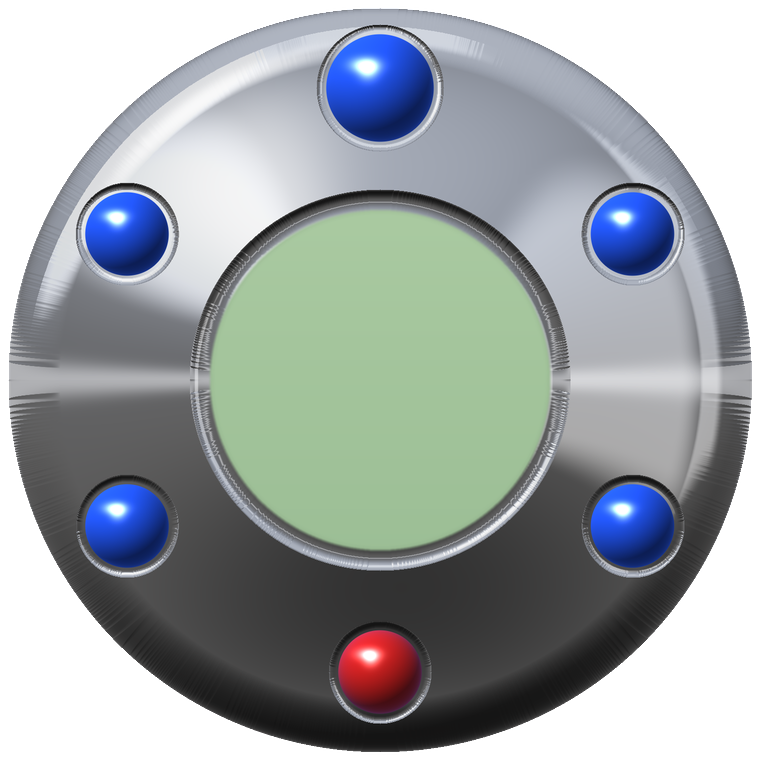
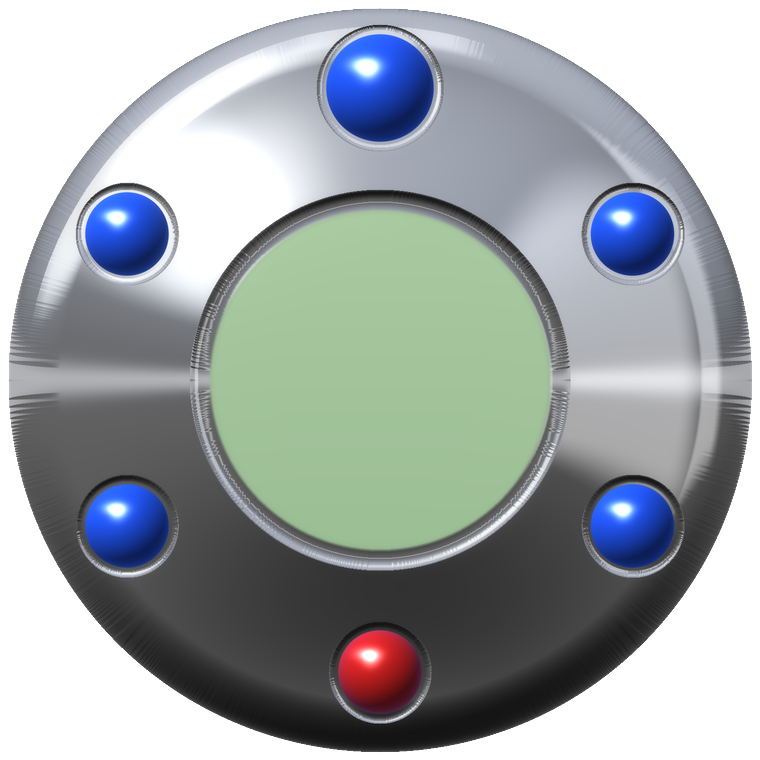
Update EARWAX app

Changed region(s): [[0.1211, 0.0605, 0.3934, 0.3934], [0.3329, 0.3026, 0.3632, 0.3329]]

diff --git a/tools/head.py b/tools/head.py
@@ -3,7 +3,7 @@ import numpy as np, json, sys, time
 from PIL import Image
 from art import *
 W, H = (1080, 1130) if len(sys.argv) < 2 else (int(sys.argv[1]), int(sys.argv[1]) * 1130 // 1080)
-S = W / 3.1; YC = 0.02 + 1.62
+S = W / 3.3; YC = 1.62
 
 def smin(a, b, k):
     h = np.clip(0.5 + 0.5 * (b - a) / k, 0, 1); return b * (1 - h) + a * h - k * h * (1 - h)
@@ -13,41 +13,47 @@ def ell(x, y, z, c, r):
     return k0 * (k0 - 1) / k1
 def sph(x, y, z, c, r): return np.sqrt((x - c[0]) ** 2 + (y - c[1]) ** 2 + (z - c[2]) ** 2) - r
 def cap(x, y, z, a, b, r):
-    px, py, pz = x - a[0], y - a[1], z - a[2]; bx, by, bz = b[0] - a[0], b[1] - a[1], b[2] - a[2]
-    h = np.clip((px * bx + py * by + pz * bz) / (bx * bx + by * by + bz * bz), 0, 1)
-    return np.sqrt((px - bx * h) ** 2 + (py - by * h) ** 2 + (pz - bz * h) ** 2) - r
+    px, py, pz_ = x - a[0], y - a[1], z - a[2]; bx, by, bz = b[0] - a[0], b[1] - a[1], b[2] - a[2]
+    h = np.clip((px * bx + py * by + pz_ * bz) / (bx * bx + by * by + bz * bz), 0, 1)
+    return np.sqrt((px - bx * h) ** 2 + (py - by * h) ** 2 + (pz_ - bz * h) ** 2) - r
 def rbox(x, y, z, c, b, r):
     qx, qy, qz = np.abs(x - c[0]) - b[0] + r, np.abs(y - c[1]) - b[1] + r, np.abs(z - c[2]) - b[2] + r
     return np.sqrt(np.maximum(qx, 0) ** 2 + np.maximum(qy, 0) ** 2 + np.maximum(qz, 0) ** 2) + np.minimum(np.maximum(qx, np.maximum(qy, qz)), 0) - r
 
-SCR = dict(c=(0, 0.62, 0.8), b=(0.60, 0.50))
-CONES = [(sx, cy) for sx in (-1, 1) for cy in (0.60, 0.13, -0.34)]
-PEARLS = [(-0.60, 1.30), (-0.20, 1.34), (0.20, 1.34), (0.60, 1.30)]
-def pz(px, py): return 0.9 * np.sqrt(max(0, 1 - ((py - 0.35) / 1.15) ** 2 - (px / 0.95) ** 2)) - 0.02
+SC_Y = 0.52                                   # screen centre height
+CONES = [(sx, cy) for sx in (-1, 1) for cy in (0.45, 0.05, -0.35)]
+POD_X = 1.30
+PEARLS = [(-0.60, 1.20), (-0.21, 1.31), (0.21, 1.31), (0.60, 1.20)]
+def crown_z(px, py): return 0.92 * np.sqrt(max(0.0, 1 - ((py - 0.42) / 1.10) ** 2 - (px / 0.98) ** 2))
 
 def scene(x, y, z):
-    d = smin(ell(x, y, z, (0, .35, 0), (.95, 1.15, .9)), ell(x, y, z, (0, -.55, .1), (.72, .85, .75)), .35)
-    d = smin(d, sph(x, y, z, (0, -1.25, .45), .30), .25)
-    d = smin(d, ell(x, y, z, (0, -.13, .8), (.64, .12, .2)), .22)
-    d = smin(d, cap(x, y, z, (0, -.2, .82), (0, -.66, 1.07), .15), .18)
+    d = smin(ell(x, y, z, (0, .42, 0), (.98, 1.10, .92)), ell(x, y, z, (0, -.55, .12), (.76, .88, .72)), .40)
+    d = smin(d, ell(x, y, z, (0, -1.33, .48), (.30, .20, .26)), .22)
+    d = smin(d, ell(x, y, z, (0, -1.62, 0.0), (.36, .50, .34)), .30)                        # neck
     for sx in (-1, 1):
-        d = smin(d, sph(x, y, z, (sx * .17, -.74, .95), .11), .10)
-        d = smin(d, sph(x, y, z, (sx * .46, -.45, .66), .21), .30)
-        d = smin(d, cap(x, y, z, (sx * .80, .15, .02), (sx * 1.10, .15, .02), .26), .16)
-        d = smin(d, rbox(x, y, z, (sx * 1.30, .14, .05), (.27, .78, .42), .24), .12)
-    d = smin(d, ell(x, y, z, (0, -1.0, .80), (.30, .075, .10)), .04)
-    d = smin(d, ell(x, y, z, (0, -1.13, .78), (.26, .075, .10)), .04)
-    d = np.maximum(d, -rbox(x, y, z, (SCR['c'][0], SCR['c'][1], 0.92), (SCR['b'][0] + .04, SCR['b'][1] + .04, .3), .2))
-    for sx, cy in CONES:   # speaker groove
-        d = np.maximum(d, -(np.maximum(np.sqrt((x - sx * 1.30) ** 2 + (y - cy) ** 2) - .215, -(z - .40) + 0.0 - 0.0)))
-    m = np.zeros_like(d)
-    best = d
+        d = smin(d, sph(x, y, z, (sx * .52, -.80, .40), .34), .30)                          # jaw / cheek mass
+        d = smin(d, sph(x, y, z, (sx * .17, -.70, .93), .105), .12)                         # nostril wings
+        d = smin(d, cap(x, y, z, (sx * .80, .05, .05), (sx * 1.08, .05, .05), .21), .14)    # hinge to pod
+        d = smin(d, rbox(x, y, z, (sx * POD_X, .05, .10), (.27, .64, .34), .26), .12)       # speaker pod
+    d = smin(d, ell(x, y, z, (0, -.10, .74), (.58, .10, .16)), .26)                          # brow shelf under the screen
+    d = smin(d, cap(x, y, z, (0, -.14, .80), (0, -.56, 1.00), .13), .16)                     # nose bridge
+    d = smin(d, sph(x, y, z, (0, -.66, 1.05), .155), .14)                                    # nose tip
+    d = smin(d, ell(x, y, z, (0, -.98, .84), (.30, .078, .12)), .12)                         # upper lip
+    d = smin(d, ell(x, y, z, (0, -1.11, .83), (.26, .088, .12)), .12)                        # lower lip
+    d = np.maximum(d, -ell(x, y, z, (0, -1.045, .96), (.30, .012, .08)))                     # mouth line
+    for sx in (-1, 1): d = np.maximum(d, -ell(x, y, z, (sx * .085, -.77, 1.0), (.05, .03, .06)))   # nostrils
+    bez = rbox(x, y, z, (0, SC_Y, .74), (.70, .54, .30), .26)                                # CRT bezel block on the forehead
+    bez = np.maximum(bez, -rbox(x, y, z, (0, SC_Y, 1.12), (.60, .46, .14), .13))
+    d = smin(d, bez, .10)
+    for sx, cy in CONES:                                                                     # speaker grooves
+        d = np.maximum(d, -np.maximum(np.sqrt((x - sx * POD_X) ** 2 + (y - cy) ** 2) - .225, .34 - z + 0.0))
+    m = np.zeros_like(d); best = d
     def put(dd, mat):
         nonlocal best, m
         sel = dd < best; best = np.where(sel, dd, best); m = np.where(sel, mat, m)
-    put(rbox(x, y, z, (SCR['c'][0], SCR['c'][1], 0.79), (SCR['b'][0] - .03, SCR['b'][1] - .03, .045), .04), 1)
-    for sx, cy in CONES: put(ell(x, y, z, (sx * 1.30, cy, .38), (.17, .17, .11)), 2)
-    for px, py in PEARLS: put(sph(x, y, z, (px, py, pz(px, py) + .02), .095), 3)
+    put(rbox(x, y, z, (0, SC_Y, .97), (.585, .445, .03), .11), 1)
+    for sx, cy in CONES: put(ell(x, y, z, (sx * POD_X, cy, .36), (.175, .175, .125)), 2)
+    for px, py in PEARLS: put(sph(x, y, z, (px, py, crown_z(px, py) + .03), .125), 3)
     return best, m
 
 def march(x0, y0):
@@ -79,20 +85,20 @@ for s0 in range(0, idx.size, 200000):
     ao = np.clip(ao, 0.25, 1)
     col = shade_normals(n, ao=ao)
     gl = shade_normals(n, base=(.55, .6, .7), spec=1.4) * 0.30 + 0.015       # black glass
-    cone = shade_normals(n, base=(.30, .31, .34), spec=.6, ao=ao * .8) * 0.55; ang = np.arctan2(y - np.round((y + .34) / .47) * .47, x - np.sign(x) * 1.30)
+    cone = shade_normals(n, base=(.30, .31, .34), spec=.6, ao=ao * .8) * 0.55; ang = np.arctan2(y - np.clip(np.round((y - .05) / .40) * .40 + .05, -.35, .45), x - np.sign(x) * POD_X)
     cone *= (0.82 + 0.18 * np.sin(ang * 36))[:, None]
     pearl = shade_normals(n, base=(.80, .86, 1.0), spec=2.0, ao=ao); pearl = pearl * np.array([.78, .88, 1.1])
     out = np.where((mat == 1)[:, None], gl, np.where((mat == 2)[:, None], cone, np.where((mat == 3)[:, None], pearl, col)))
     rgb[ii] = out
 img = np.dstack([rgb.reshape(H, W, 3), alpha.reshape(H, W)]); img[..., :3] *= (img[..., 3:4] > 0)
+img = finish(img)
 Image.fromarray((np.clip(img, 0, 1) * 255).astype(np.uint8), 'RGBA').save(sys.argv[2] if len(sys.argv) > 2 else 'head.png')
 def px(wx, wy): return [round(wx * S + W / 2, 1), round(YC * S - wy * S, 1)]
 buttons = []
 for i, (sx, cy) in enumerate(CONES):
-    cx, cyy = px(sx * 1.30, cy); buttons.append(dict(id=['prev', 'play', 'next', 'list', 'eq', 'fx'][i if sx < 0 else i], cx=cx, cy=cyy, r=round(.22 * S, 1)))
-# left cones are first 3 (sx=-1) -> prev/play/next ; right cones -> list/eq/fx
+    cx, cyy = px(sx * POD_X, cy); buttons.append(dict(id=['prev', 'play', 'next', 'list', 'eq', 'fx'][i], cx=cx, cy=cyy, r=round(.20 * S, 1)))
 for (pxx, pyy), bid in zip(PEARLS, ['shuffle', 'repeat', 'sleep', 'popup']):
-    cx, cyy = px(pxx, pz(pxx, pyy) and pyy); buttons.append(dict(id=bid, cx=cx, cy=cyy, r=round(.11 * S, 1)))
-sc = px(SCR['c'][0] - SCR['b'][0], SCR['c'][1] + SCR['b'][1])
-json.dump(dict(w=W, h=H, screen=dict(x=sc[0], y=sc[1], w=round(2 * SCR['b'][0] * S - .06 * S, 1), h=round(2 * SCR['b'][1] * S - .06 * S, 1), r=round(.08 * S, 1)), buttons=buttons), open(sys.argv[3] if len(sys.argv) > 3 else 'head.json', 'w'))
+    cx, cyy = px(pxx, pyy); buttons.append(dict(id=bid, cx=cx, cy=cyy, r=round(.17 * S, 1)))
+sc = px(-.57, SC_Y + .41)
+json.dump(dict(w=W, h=H, screen=dict(x=sc[0], y=sc[1], w=round(1.14 * S, 1), h=round(.82 * S, 1), r=round(.08 * S, 1)), buttons=buttons), open(sys.argv[3] if len(sys.argv) > 3 else 'head.json', 'w'))
 print('done', time.time() - t0)

diff --git a/app/src/main/java/app/earwax/StageView.java b/app/src/main/java/app/earwax/StageView.java
@@ -18,6 +18,7 @@ final class StageView extends View {
     private final Skin head, plate;
     private final Paint Q = new Paint(Paint.ANTI_ALIAS_FLAG), P = Skin.P;
     private final RectF pr;
+    private Bitmap bg;
     private final OverScroller sc;
     private final GestureDetector gd;
     private float s = 1, ox, oy, scroll;
@@ -34,6 +35,7 @@ final class StageView extends View {
         head = Skin.load(c, "head"); plate = Skin.load(c, "plate");
         pr = new RectF(plate.panel.left, plate.panel.top + PY, plate.panel.right, plate.panel.bottom + PY);
         sc = new OverScroller(c);
+        try (java.io.InputStream in = c.getAssets().open("skins/bg.jpg")) { bg = BitmapFactory.decodeStream(in); } catch (Exception ignored) { }
         gd = new GestureDetector(c, new GestureDetector.SimpleOnGestureListener() {
             @Override public boolean onScroll(MotionEvent a, MotionEvent b, float dx, float dy) { scroll = clampScroll(scroll + dy / s); invalidate(); return true; }
             @Override public boolean onFling(MotionEvent a, MotionEvent b, float vx, float vy) { sc.fling(0, (int) scroll, 0, (int) (-vy / s), 0, 0, 0, (int) maxScroll(), 0, 0); postInvalidateOnAnimation(); return true; }
@@ -52,7 +54,31 @@ final class StageView extends View {
     private float clampScroll(float v) { return Math.max(0, Math.min(maxScroll(), v)); }
 
     // ------------------------------------------------------------------ drawing
+    /** Light haze: slow drifting mist behind the hardware, a faint veil in front of it. */
+    private void fog(Canvas c, int w, int h) {
+        long t = System.currentTimeMillis();
+        for (int i = 0; i < 3; i++) {
+            float ph = t / 9000f + i * 2.1f, cx = w * (0.5f + 0.35f * (float) Math.sin(ph)), cy = h * (0.22f + 0.28f * i + 0.05f * (float) Math.cos(ph * 1.3f)), r = w * (0.75f + 0.15f * i);
+            Q.setStyle(Paint.Style.FILL); Q.setShader(new RadialGradient(cx, cy, r, 0x2499b8d8, 0x0099b8d8, Shader.TileMode.CLAMP)); c.drawRect(0, 0, w, h, Q);
+        }
+        Q.setShader(null);
+    }
+
+    private void mist(Canvas c, int w, int h) {
+        Q.setStyle(Paint.Style.FILL);
+        Q.setShader(new LinearGradient(0, h * 0.6f, 0, h, 0x00a8c4e0, 0x30a8c4e0, Shader.TileMode.CLAMP)); c.drawRect(0, h * 0.6f, w, h, Q);
+        Q.setShader(new LinearGradient(0, 0, 0, h * 0.12f, 0x28a8c4e0, 0x00a8c4e0, Shader.TileMode.CLAMP)); c.drawRect(0, 0, w, h * 0.12f, Q);
+        Q.setShader(null);
+    }
+
     @Override protected void onDraw(Canvas c) {
+        if (bg != null) c.drawBitmap(bg, null, new Rect(0, 0, getWidth(), getHeight()), P);
+        fog(c, getWidth(), getHeight());
+        c.save(); drawStage(c); c.restore();
+        mist(c, getWidth(), getHeight());
+    }
+
+    private void drawStage(Canvas c) {
         PlayerService sv = PlayerService.I; if (sv == null) return;
         Hud x = sv.hud();
         c.translate(ox, oy); c.scale(s, s);
@@ -66,11 +92,11 @@ final class StageView extends View {
             boolean on = (b.id.equals("list") && mode == 0) || (b.id.equals("eq") && mode == 1) || (b.id.equals("fx") && mode == 2)
                     || (b.id.equals("shuffle") && sv.shuffle()) || (b.id.equals("repeat") && sv.repeat() != 0)
                     || (b.id.equals("sleep") && sv.sleepMin > 0) || (b.id.equals("popup") && sv.pv != null);
-            boolean cone = b.r > 50;
-            Skin.glyph(c, b.id, b.cx, b.cy, b.r * (cone ? 0.8f : 1f), x.playing, cone ? Skin.LED : 0xff1a2a55);
+            boolean cone = "prev,play,next,list,eq,fx".contains(b.id);
+            Skin.glyph(c, b.id, b.cx, b.cy, b.r * (cone ? 1.0f : 0.62f), x.playing, cone ? Skin.LED : 0xff1a2a55);
             if (on || down == b) {
                 Q.setStyle(Paint.Style.STROKE); Q.setStrokeWidth(down == b ? 9 : 6); Q.setColor(down == b ? 0xffffffff : 0xcc7fe6ff);
-                c.drawCircle(b.cx, b.cy, b.r * (cone ? 0.86f : 1.05f), Q);
+                c.drawCircle(b.cx, b.cy, b.r * (cone ? 0.9f : 0.78f), Q);
             }
         }
     }
@@ -84,6 +110,7 @@ final class StageView extends View {
             int lit = (int) (x.bars[i] * 16);
             for (int k = 0; k < 16; k++) {
                 Q.setColor(k >= lit ? 0xff0e2218 : k < 9 ? 0xff3be37a : k < 13 ? 0xffe8e04a : 0xffff4a3a);
+                if (k < lit) { int gc = Q.getColor(); Q.setColor((gc & 0xffffff) | 0x38000000); c.drawRect(r.left + 24 + i * bw, bot - (k + 1) * seg - 2, r.left + 32 + (i + 1) * bw, bot - k * seg + 4, Q); Q.setColor(gc); }
                 c.drawRect(r.left + 28 + i * bw + 2, bot - (k + 1) * seg + 2, r.left + 28 + (i + 1) * bw - 2, bot - k * seg, Q);
             }
         }

diff --git a/tools/preview.py b/tools/preview.py
@@ -44,7 +44,11 @@ def hud(img, js, strip=False, title='NIGHT DRIVE - SYNTHWAVE', artist='EARWAX DE
             a = math.radians(-135 + 270 * .8); d.line([b['cx'] + math.sin(a) * b['r'] * .28, b['cy'] - math.cos(a) * b['r'] * .28, b['cx'] + math.sin(a) * b['r'] * .78, b['cy'] - math.cos(a) * b['r'] * .78], fill='white', width=int(b['r'] * .12))
         else: glyph(d, b['id'], b['cx'], b['cy'], b['r'], 'white')
 def phone():
-    W, H = 1080, 2200; im = Image.new('RGBA', (W, H), (16, 20, 28, 255)); oy = 50
+    W, H = 1080, 2200; im = Image.open(f'{A}/bg.jpg').convert('RGBA').resize((W, H), Image.BICUBIC); oy = 50
+    from PIL import ImageFilter
+    fog = Image.new('RGBA', (W, H), (0, 0, 0, 0)); fd = ImageDraw.Draw(fog)
+    for i, (cx, cy, r) in enumerate([(380, 500, 700), (760, 1150, 760), (420, 1800, 820)]): fd.ellipse([cx - r, cy - r, cx + r, cy + r], fill=(153, 184, 216, 36))
+    im.alpha_composite(fog.filter(ImageFilter.GaussianBlur(160)))
     head, hj = load('head'); plate, pj = load('plate')
     im.alpha_composite(plate, (0, 1050 + oy)); im.alpha_composite(head, (0, oy)); d = ImageDraw.Draw(im)
     r = hj['screen']; x0, y0 = r['x'], r['y'] + oy
@@ -66,8 +70,13 @@ def phone():
         if i == 2: d.rounded_rectangle([px0 + 16, y + 4, px0 + p['w'] - 16, y + 60], 14, fill=(30, 90, 60))
         d.text((px0 + 30, y + 32), '%03d' % (i + 1), font=F(28), fill=DIM, anchor='lm'); d.text((px0 + 118, y + 32), nm, font=F(32), fill=(255, 255, 255) if i == 2 else LED, anchor='lm'); d.text((px0 + p['w'] - 30, y + 32), '03:%02d' % (10 + i * 4), font=F(28), fill=DIM, anchor='rm')
     for b in hj['buttons']:
-        cone = b['r'] > 50; glyph(d, b['id'], b['cx'], b['cy'] + oy, b['r'] * (.8 if cone else 1), LED if cone else (26, 42, 85))
-        if b['id'] in ('list', 'shuffle'): d.ellipse([b['cx'] - b['r'] * .86, b['cy'] + oy - b['r'] * .86, b['cx'] + b['r'] * .86, b['cy'] + oy + b['r'] * .86], outline=(127, 230, 255), width=6)
+        cone = b['id'] in ('prev', 'play', 'next', 'list', 'eq', 'fx'); glyph(d, b['id'], b['cx'], b['cy'] + oy, b['r'] * (1.0 if cone else .62), LED if cone else (26, 42, 85))
+        if b['id'] in ('list', 'shuffle'): rr_ = b['r'] * (.9 if cone else .78); d.ellipse([b['cx'] - rr_, b['cy'] + oy - rr_, b['cx'] + rr_, b['cy'] + oy + rr_], outline=(127, 230, 255), width=6)
+    from PIL import ImageChops
+    bl = im.convert('RGB').filter(ImageFilter.GaussianBlur(9)); im = Image.blend(im.convert('RGB'), ImageChops.screen(im.convert('RGB'), bl), .35)
+    mist = Image.new('RGBA', (W, H), (0, 0, 0, 0)); md = ImageDraw.Draw(mist)
+    for y in range(int(H * .6), H): md.line([0, y, W, y], fill=(168, 196, 224, int(48 * (y - H * .6) / (H * .4))))
+    im = Image.alpha_composite(im.convert('RGBA'), mist)
     return im.convert('RGB')
 def popup(n, bg):
     s, j = load(n); hud(s, j); return s

diff --git a/tools/shapes.py b/tools/shapes.py
@@ -33,6 +33,8 @@ def build(name, W, H, mask, R, holes, buttons, extra, dome=0.35, nk=1.0):
         elif kind == 'dark': fl = lcd_floor((SH, SW), d_in, edge, (0.035, 0.075, 0.05), (0.02, 0.05, 0.035))
         elif kind == 'grill': fl = lcd_floor((SH, SW), d_in, edge, (0.18, 0.2, 0.22), (0.12, 0.13, 0.15))
         a = (m * sstep(edge * 0.8, edge, d_in))[..., None]; rgb = rgb * (1 - a) + fl * a
+        gl = np.clip(1 - (np.arange(SW)[None, :] + np.arange(SH)[:, None] * 1.3) / (SW + SH * 1.3) * 2.4, 0, 1) ** 1.5 * (0.13 if kind == 'dark' else 0.08)
+        rgb = np.clip(rgb + (gl * a[..., 0])[..., None], 0, 1)
     out = Image.fromarray((np.dstack([rgb, np.ones((SH, SW))]) * 255).astype(np.uint8), 'RGBA')
     for b in buttons:
         s = int(2 * b['r'] * SC); g = gel_button(s, b.get('hue', (0.12, 0.30, 0.86)))
@@ -41,7 +43,8 @@ def build(name, W, H, mask, R, holes, buttons, extra, dome=0.35, nk=1.0):
     pm = arr[..., :3] * arr[..., 3:4]; pm = np.dstack([pm, arr[..., 3]])
     pm = np.array(Image.fromarray((pm * 255).astype(np.uint8), 'RGBA').resize((W, H), Image.LANCZOS)).astype(np.float32) / 255
     a = pm[..., 3:4]; rgbo = np.where(a > 0.002, pm[..., :3] / np.maximum(a, 0.002), 0)
-    Image.fromarray((np.dstack([np.clip(rgbo, 0, 1), a]) * 255).astype(np.uint8), 'RGBA').save(f'{OUT}/{name}.png')
+    fin = finish(np.dstack([np.clip(rgbo, 0, 1), a[..., 0]]))
+    Image.fromarray((fin * 255).astype(np.uint8), 'RGBA').save(f'{OUT}/{name}.png')
     meta = dict(w=W, h=H, buttons=[{k: v for k, v in b.items() if k != 'hue'} for b in buttons]); meta.update(extra)
     json.dump(meta, open(f'{OUT}/{name}.json', 'w'))
 
@@ -49,7 +52,7 @@ def R_(x, y, w, h, r=24): return dict(x=x, y=y, w=w, h=h, r=r)
 
 # ---------- PLATE (main-screen body under the head) ----------
 W, H = 1080, 1050; SW, SH = W * SC, H * SC
-m = blobs(SW, SH, [(540, 90, 250, 130, 0), (320, 600, 310, 320, 0), (760, 600, 310, 320, 0), (540, 560, 400, 310, 0), (190, 400, 105, 190, 0), (890, 400, 105, 190, 0)])
+m = blobs(SW, SH, [(540, 70, 190, 150, 0), (540, 255, 430, 120, 0)]) | rr(SW, SH, 40, 180, 1000, 850, 240)
 panel = R_(115, 265, 850, 640, 64)
 grill = np.zeros((SH, SW), bool)
 for i in range(9): grill |= rr(SW, SH, 300 + i * 56, 950, 26, 56, 13)

diff --git a/tools/bg.py b/tools/bg.py
@@ -1,0 +1,13 @@
+"""Soft blurred backdrop for the main screen (steel-blue haze, cyan glow behind the head, light grain)."""
+import numpy as np, sys
+from PIL import Image
+from scipy import ndimage as ndi
+W, H = 540, 1170
+Y, X = np.mgrid[0:H, 0:W].astype(np.float32); u, v = X / W, Y / H
+top, mid, bot = np.array([26, 42, 64]), np.array([15, 24, 37]), np.array([8, 12, 19])
+t = v[..., None]; img = np.where(t < .5, top * (1 - t * 2) + mid * (t * 2), mid * (1 - (t - .5) * 2) + bot * ((t - .5) * 2)).astype(np.float32)
+def glow(cx, cy, rx, ry, col, k): g = np.exp(-(((u - cx) / rx) ** 2 + ((v - cy) / ry) ** 2)); return g[..., None] * np.array(col) * k
+img += glow(.5, .20, .55, .20, (70, 140, 190), .55) + glow(.15, .85, .6, .18, (40, 80, 140), .45) + glow(.9, .55, .4, .25, (70, 110, 150), .25)
+ray = np.clip(np.sin((u * 1.2 - v * .9) * 6) * .5 + .5, 0, 1) ** 3; img += ray[..., None] * np.array([40, 70, 100]) * .12
+img = ndi.gaussian_filter(img, (6, 6, 0)); img += np.random.default_rng(1).normal(0, 1.6, img.shape)
+Image.fromarray(np.clip(img, 0, 255).astype(np.uint8)).save(sys.argv[1] if len(sys.argv) > 1 else 'bg.jpg', quality=88)

diff --git a/tools/art.py b/tools/art.py
@@ -68,3 +68,17 @@ def lcd_floor(shape, d_in, edge, top=(0.70, 0.82, 0.66), bot=(0.58, 0.72, 0.56))
     c = np.broadcast_to(c, (H, W, 3)).copy()
     ao = (0.62 + 0.38 * sstep(0, edge * 1.2, d_in))[..., None]
     return c * ao
+
+def nblur(rgb, a, sigma):
+    """Alpha-aware gaussian blur (no dark fringes at silhouette edges)."""
+    num = ndi.gaussian_filter(rgb * a[..., None], (sigma, sigma, 0)); den = ndi.gaussian_filter(a, sigma)[..., None]
+    return num / np.maximum(den, 1e-4)
+
+def finish(rgba, bloom=0.30, haze=0.10):
+    """Old-UI softness: bloom on highlights + a touch of soft focus, applied inside the silhouette only."""
+    rgb, a = rgba[..., :3].astype(np.float32), rgba[..., 3].astype(np.float32)
+    lum = rgb.mean(-1); hi = np.clip((lum - 0.74) / 0.26, 0, 1)[..., None] * rgb
+    glow = nblur(hi, a, 7) * 0.6 + nblur(hi, a, 18) * 0.4
+    soft = nblur(rgb, a, 2.2)
+    out = np.clip(rgb * (1 - haze) + soft * haze + glow * bloom, 0, 1)
+    return np.dstack([out * (a[..., None] > 0), a])

diff --git a/app/src/main/java/app/earwax/Skin.java b/app/src/main/java/app/earwax/Skin.java
@@ -62,7 +62,9 @@ final class Skin {
 
     // ---------------------------------------------------------------- text helpers
     static void text(Canvas c, String s, float x, float y, float size, int col, Paint.Align al) {
-        T.setTextSize(size); T.setColor(col); T.setTextAlign(al); c.drawText(s, x, y, T);
+        T.setTextSize(size); T.setColor(col); T.setTextAlign(al);
+        if (col == LED || col == 0xffffffff) T.setShadowLayer(size * 0.28f, 0, 0, (col & 0x00ffffff) | 0x99000000); else T.clearShadowLayer();   // soft LCD bloom
+        c.drawText(s, x, y, T);
     }
     static String fit(String s, float size, float max) {
         T.setTextSize(size); if (T.measureText(s) <= max) return s;

diff --git a/ARCHITECTURE.md b/ARCHITECTURE.md
@@ -14,7 +14,7 @@ earwax/
 │  │  ├─ StageView      main screen: head + plate artwork, screen content, list / EQ / FX panels, all touch handling
 │  │  ├─ PopupView      floating shaped overlay window (WindowManager, TYPE_APPLICATION_OVERLAY)
 │  │  └─ Notif          builds the RemoteViews notification from the "strip" skin
-│  ├─ assets/skins/     head, plate, whale, orb, strip  (*.png artwork, *.json layouts)  <- generated
+│  ├─ assets/skins/     head, plate, whale, orb, strip (*.png + *.json) and bg.jpg (blurred backdrop)  <- generated
 │  └─ res/              notif_big.xml / notif_small.xml / icons  <- generated from strip.json
 └─ tools/               artwork + layout generators and the preview composer (Python)
 ```
@@ -52,3 +52,15 @@ StageView / PopupView ── call methods ──►┘ toggle(), next(), setPitc
 1. Add a build call in `tools/shapes.py` (mask + holes + buttons) and run it.
 2. Reference it in `PlayerService.cyclePopup()` (popups) or load it like `strip` in `Notif`.
 Button ids understood by the popup: `prev play next tool mode app close knob`.
+
+## Old-UI softness (blur + haze)
+* **Baked into the art** (`art.finish()`): bloom on highlights + a touch of soft focus inside every silhouette; LCD and dark-glass
+  recesses get a frosted gloss. Tune `bloom` / `haze` there.
+* **Backdrop** `bg.jpg` (made by `tools/bg.py`): blurred steel-blue gradient with a cyan glow behind the head and light grain.
+* **Runtime** (`StageView.fog()` / `mist()`): three slow-drifting radial mists behind the hardware and a faint veil at the top and bottom.
+  `Skin.text()` gives bright LCD text a soft glow (`setShadowLayer`), and the spectrum bars draw a faint halo.
+  Remove the `fog()` / `mist()` calls in `StageView.onDraw` if you want a crisp look.
+
+## Button sizing
+`head.json` stores the **touch radius** of each button (cones 65, pearls 56 design units, about 21 / 18 dp on a 1080-px phone),
+which is larger than the drawn dome so fingers hit it easily. Glyph and highlight sizes are scaled from it in `StageView.drawStage()`.

diff --git a/README.md b/README.md
@@ -35,6 +35,7 @@ pip install numpy scipy pillow matplotlib
 cd tools
 python3 head.py 1080 ../app/src/main/assets/skins/head.png ../app/src/main/assets/skins/head.json
 python3 shapes.py ../app/src/main/assets/skins
+python3 bg.py ../app/src/main/assets/skins/bg.jpg
 python3 gen_layout.py      # notification layouts + icons
 python3 preview.py         # writes a preview PNG from the same assets/layouts the app uses
 ```
